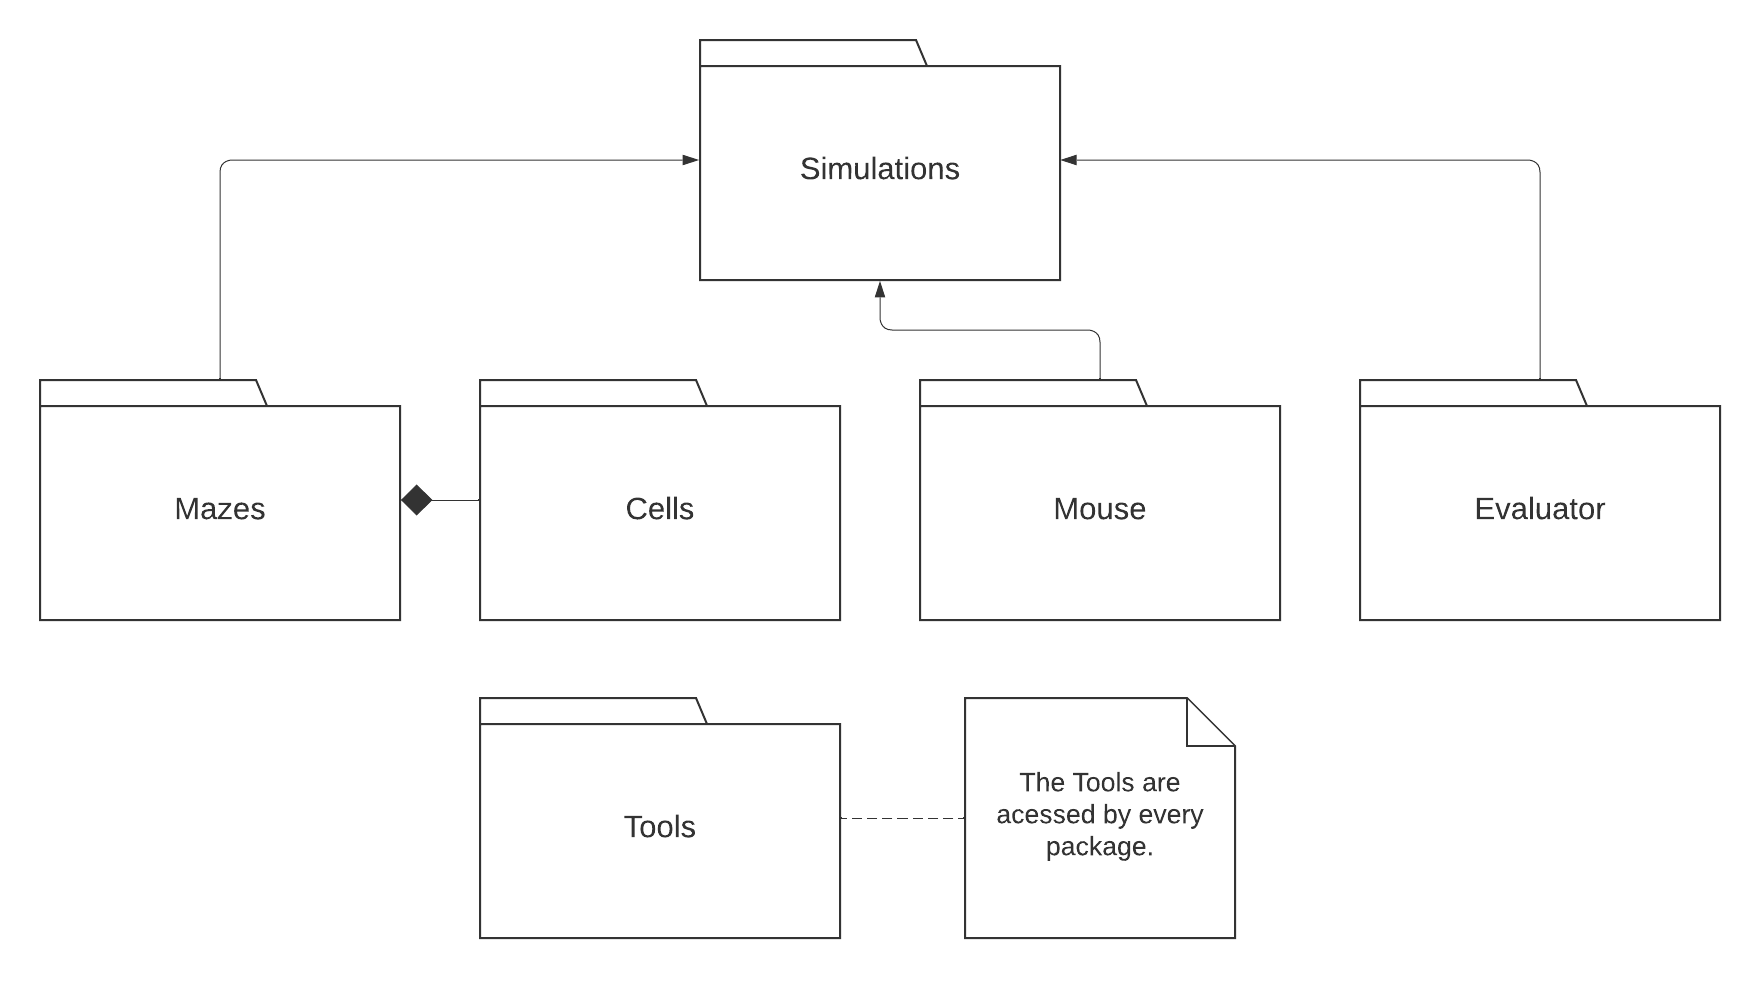
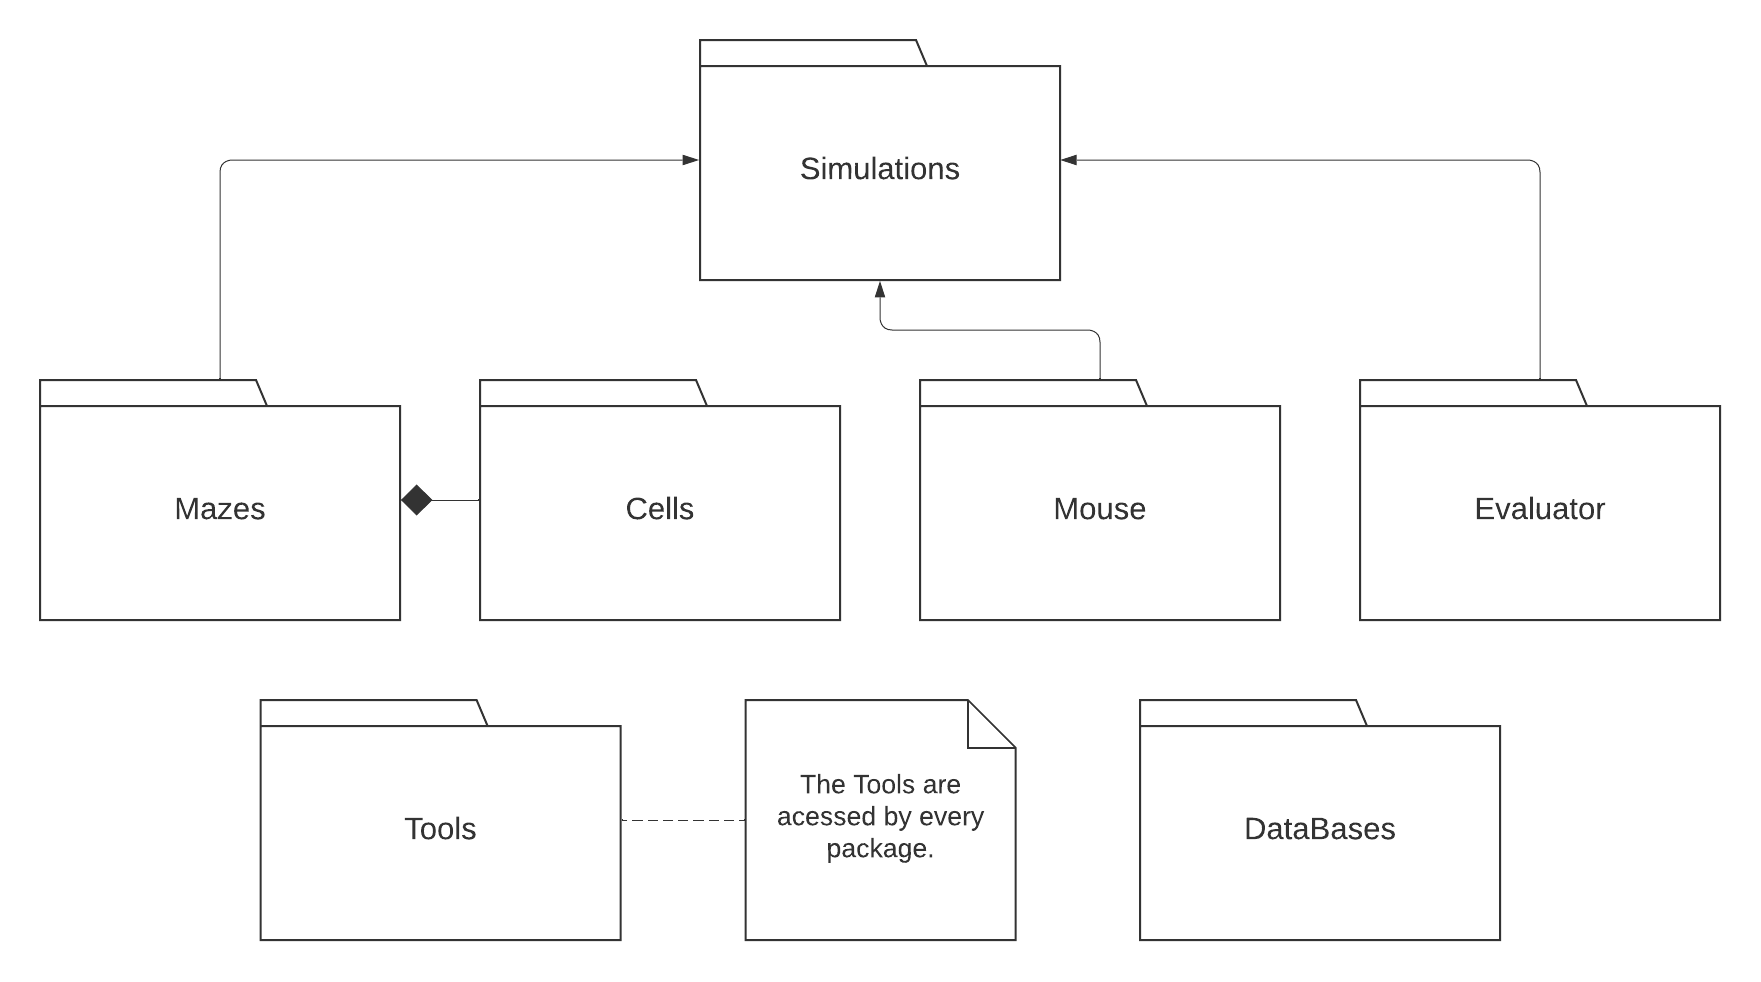
Updated uml diagrams.

diff --git a/Readme.md b/Readme.md
@@ -45,9 +45,8 @@ The following diagram describes the package structure of the library.
 | Maze       | Contains the different types of maze generators. |
 | Cells      | Contains the different types of cells that can be used to build the mazes. |
 | Tools      | Contains the different tools that can be used in the development. |
+| DataBases  | Contains the different connectors to the different supported DataBases. |
 | Test       | Contains the different test of the classes. |
-
-# TODO describe packages better
 
 ### Classes
 The following diagram describes the classes of the packages of the library and how they relate to each other.
